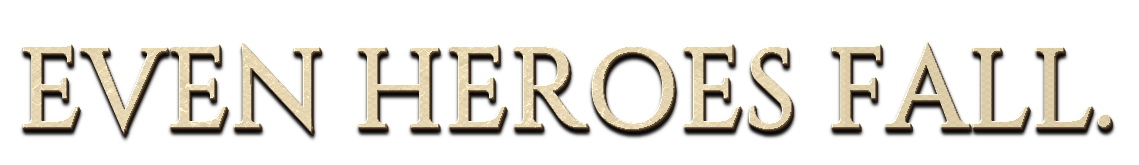
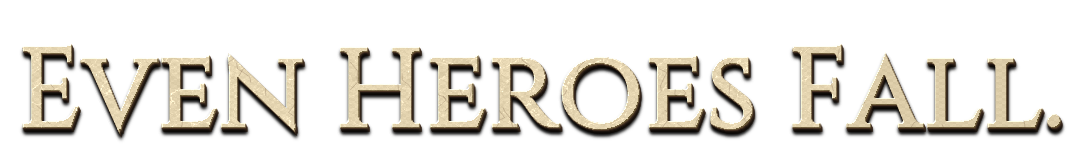
Align results and Hall presentation with approved mockups

diff --git a/studies/post-game/IMPLEMENTATION.md b/studies/post-game/IMPLEMENTATION.md
@@ -1,5 +1,13 @@
 # Results and Hall of Legends implementation
 
+## Mockup comparison revision
+
+Compared the live screens directly with `results-v4.png` and `hall-of-legends-v1.png`. Results now uses the reference's fine cellular cracked material (`slate-fine.png`), small-cap headline, wider section lettering, larger stat labels and numbers, fissured ivory score glyphs, and a prominent Rise Again action. The shared menu renderer accepts per-action emphasis and a footer height limit; the existing lettering, hit targets and fire remain in use. Portrait footers equalize the three actions and reserve more height. Post-game flames retain their requested yellow palette.
+
+Hall now has the reference's title/table spacing, brighter table text, selection triangle, readable day/month/year dates, and a two-line stone title in narrow windows. Its title assets use the Controls baker. Ten rows fit at 1280×720; smaller windows scroll. Hall remains disabled on the main menu until a run has established a score.
+
+Verification for this revision: native regression suite and real browser renders/navigation at 1280×720 and 540×960. The local Web export is updated. The Windows executable update remains pending while the player's Cairn process is open. The reference's generated lettering and simulated fire are interpreted through the game's existing fonts and interactive effects; these are actual runtime captures, not the concept images.
+
 The native game now uses the results panel above its existing blood splatter, a 0.9-second score count-up, per-stat NEW markers, and existing stone/fire menu actions. Both defeat and victory end in this view. Hall of Legends is available from the title and results, and Back restores the originating view without adding another score or replaying the results reveal.
 
 The visual parity revision replaces the initial flat text and nearly black panel with carved Cinzel headline/score glyphs, condensed Oswald stat numerals, cracked-slate material, a single bevelled bronze edge, section rules and amber record halos. Layout proportions now follow the approved results-v4 reference. The slate is cropped without distortion in wide and portrait panels. The lettering is baked from the project's fonts, remains live during score animation, and preserves its texture and bevels at arbitrary score values. Rebuild it with `node tools/godot/bake-results.mjs`; the material's exact imagegen prompt is recorded in `godot/art/results/README.md`.

diff --git a/godot/art/results/README.md b/godot/art/results/README.md
@@ -1,5 +1,9 @@
 # Results materials and lettering
 
+`slate-fine.png` is the revised runtime panel material, generated from the approved `results-v4.png` reference to match its fine cellular fissures rather than the earlier material's broad marble-like veins. The original `slate.png` remains the reproducible glyph baker's mineral source. Ivory glyph fissures are deterministic, mask-clipped strokes in `bake-results.mjs`.
+
+Exact revised material prompt: "Use case: stylized-concept. Production game material asset. Use the attached approved UI mockup solely as the material reference. Create a flat orthographic texture of ONLY the black finely cracked surface inside its score panel, edge-to-edge, landscape 3:2. Closely match its small irregular cellular cracks, subtle dark bronze hairline fissures and charcoal stone islands with quiet rough highlights. Dense fine irregular craquelure, not long diagonal veins, not marble, not gold streaks. Muted near-black overall, subtle tactile detail; no large-scale lighting gradient. Absolutely no text, numbers, borders, frame, blood, buttons or other UI. The result will be a texture behind separately drawn live text."
+
 `slate.png` is a project-bound material generated with built-in imagegen from the approved `studies/post-game/results-v4.png` reference. It is used as a texture behind live UI, not as a static screenshot.
 
 `lettering.json`, `score-*.png`, `stat-*.png` and `label-*.png` are reproducible raster lettering baked by `node tools/godot/bake-results.mjs` from the existing project Cinzel and Oswald fonts and this stone material. Score glyphs preserve their baseline and bevel during live count-up; stat glyphs use condensed Oswald. The existing font licenses remain in `asset-sources/fonts/`. Menu actions continue to use the original menu/font/fire pipeline.
